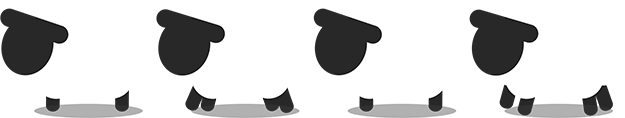
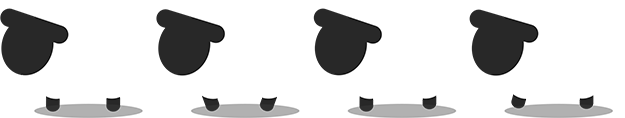
Code tweaks and made some corrections to the sheep assets

diff --git a/core/src/mx/itesm/sheep/Sheep.java b/core/src/mx/itesm/sheep/Sheep.java
@@ -121,7 +121,7 @@ public class Sheep {
                 ancho = 156;
                 alto = 116;
                 frames = region.split(ancho,alto);
-                animacion = new Animation(0.20f, frames[0][0], frames[0][1], frames[0][2]);
+                animacion = new Animation(0.1f, frames[0][0], frames[0][1], frames[0][2]);
                 animacion.setPlayMode(Animation.PlayMode.LOOP);
 
                 anchoM = 127;
@@ -138,7 +138,7 @@ public class Sheep {
                 ancho = 156;
                 alto = 116;
                 frames = region.split(ancho,alto);
-                animacion = new Animation(0.20f, frames[0][0], frames[0][1], frames[0][2]);
+                animacion = new Animation(0.1f, frames[0][0], frames[0][1], frames[0][2]);
                 animacion.setPlayMode(Animation.PlayMode.LOOP);
 
                 anchoM = 127;

diff --git a/core/src/mx/itesm/sheep/AlienLevel.java b/core/src/mx/itesm/sheep/AlienLevel.java
@@ -71,13 +71,13 @@ public class AlienLevel extends ScreenTemplate {
         // HP bar inner
         TextureRegionDrawable trd_hp_in =  new TextureRegionDrawable(new TextureRegion(hp_inner));
         final Image innerimg = new Image(trd_hp_in);
-        innerimg.setPosition(226,64);
+        innerimg.setPosition(226,1364);
         escenaAlien.addActor(innerimg);
 
         // HP bar outter
         TextureRegionDrawable trd_hp_out =  new TextureRegionDrawable(new TextureRegion(hp_outter));
         final Image outterimg = new Image(trd_hp_out);
-        outterimg.setPosition(213,50);
+        outterimg.setPosition(213,1350);
         escenaAlien.addActor(outterimg);
 
         //sheepAbd.setX(150);

diff --git a/core/src/mx/itesm/sheep/LevelTwo.java b/core/src/mx/itesm/sheep/LevelTwo.java
@@ -735,7 +735,7 @@ public class LevelTwo extends ScreenTemplate {
                 public void clicked(InputEvent event, float x, float y) {
                     // Regresa al menú
                     sheepEm.stopGameMusic();
-                    sheepEm.setScreen(new LevelOne(sheepEm));
+                    sheepEm.setScreen(new LevelTwo(sheepEm));
                     sheepEm.playGameMusic();
                 }
             });

diff --git a/core/src/mx/itesm/sheep/LevelOne.java b/core/src/mx/itesm/sheep/LevelOne.java
@@ -844,7 +844,7 @@ public class LevelOne extends ScreenTemplate {
             levelsButton.addListener(new ClickListener(){
                 @Override
                 public void clicked(InputEvent event, float x, float y) {
-                    sheepEm.setScreen(new LevelOne(sheepEm));
+                    sheepEm.setScreen(new MapScreen(sheepEm));
                 }
             });
             this.addActor(levelsButton);

diff --git a/core/src/mx/itesm/sheep/MapScreen.java b/core/src/mx/itesm/sheep/MapScreen.java
@@ -196,8 +196,8 @@ public class MapScreen extends ScreenTemplate {
 
         // GANADOS
 
-       // pref.putBoolean("wonLevelOne",true);
-        //pref.putBoolean("wonLevelTwo",true);
+       pref.putBoolean("wonLevelOne",true);
+        pref.putBoolean("wonLevelTwo",true);
 
         /*-----------------------------------------------------------------------------------------------------------------*/
 
